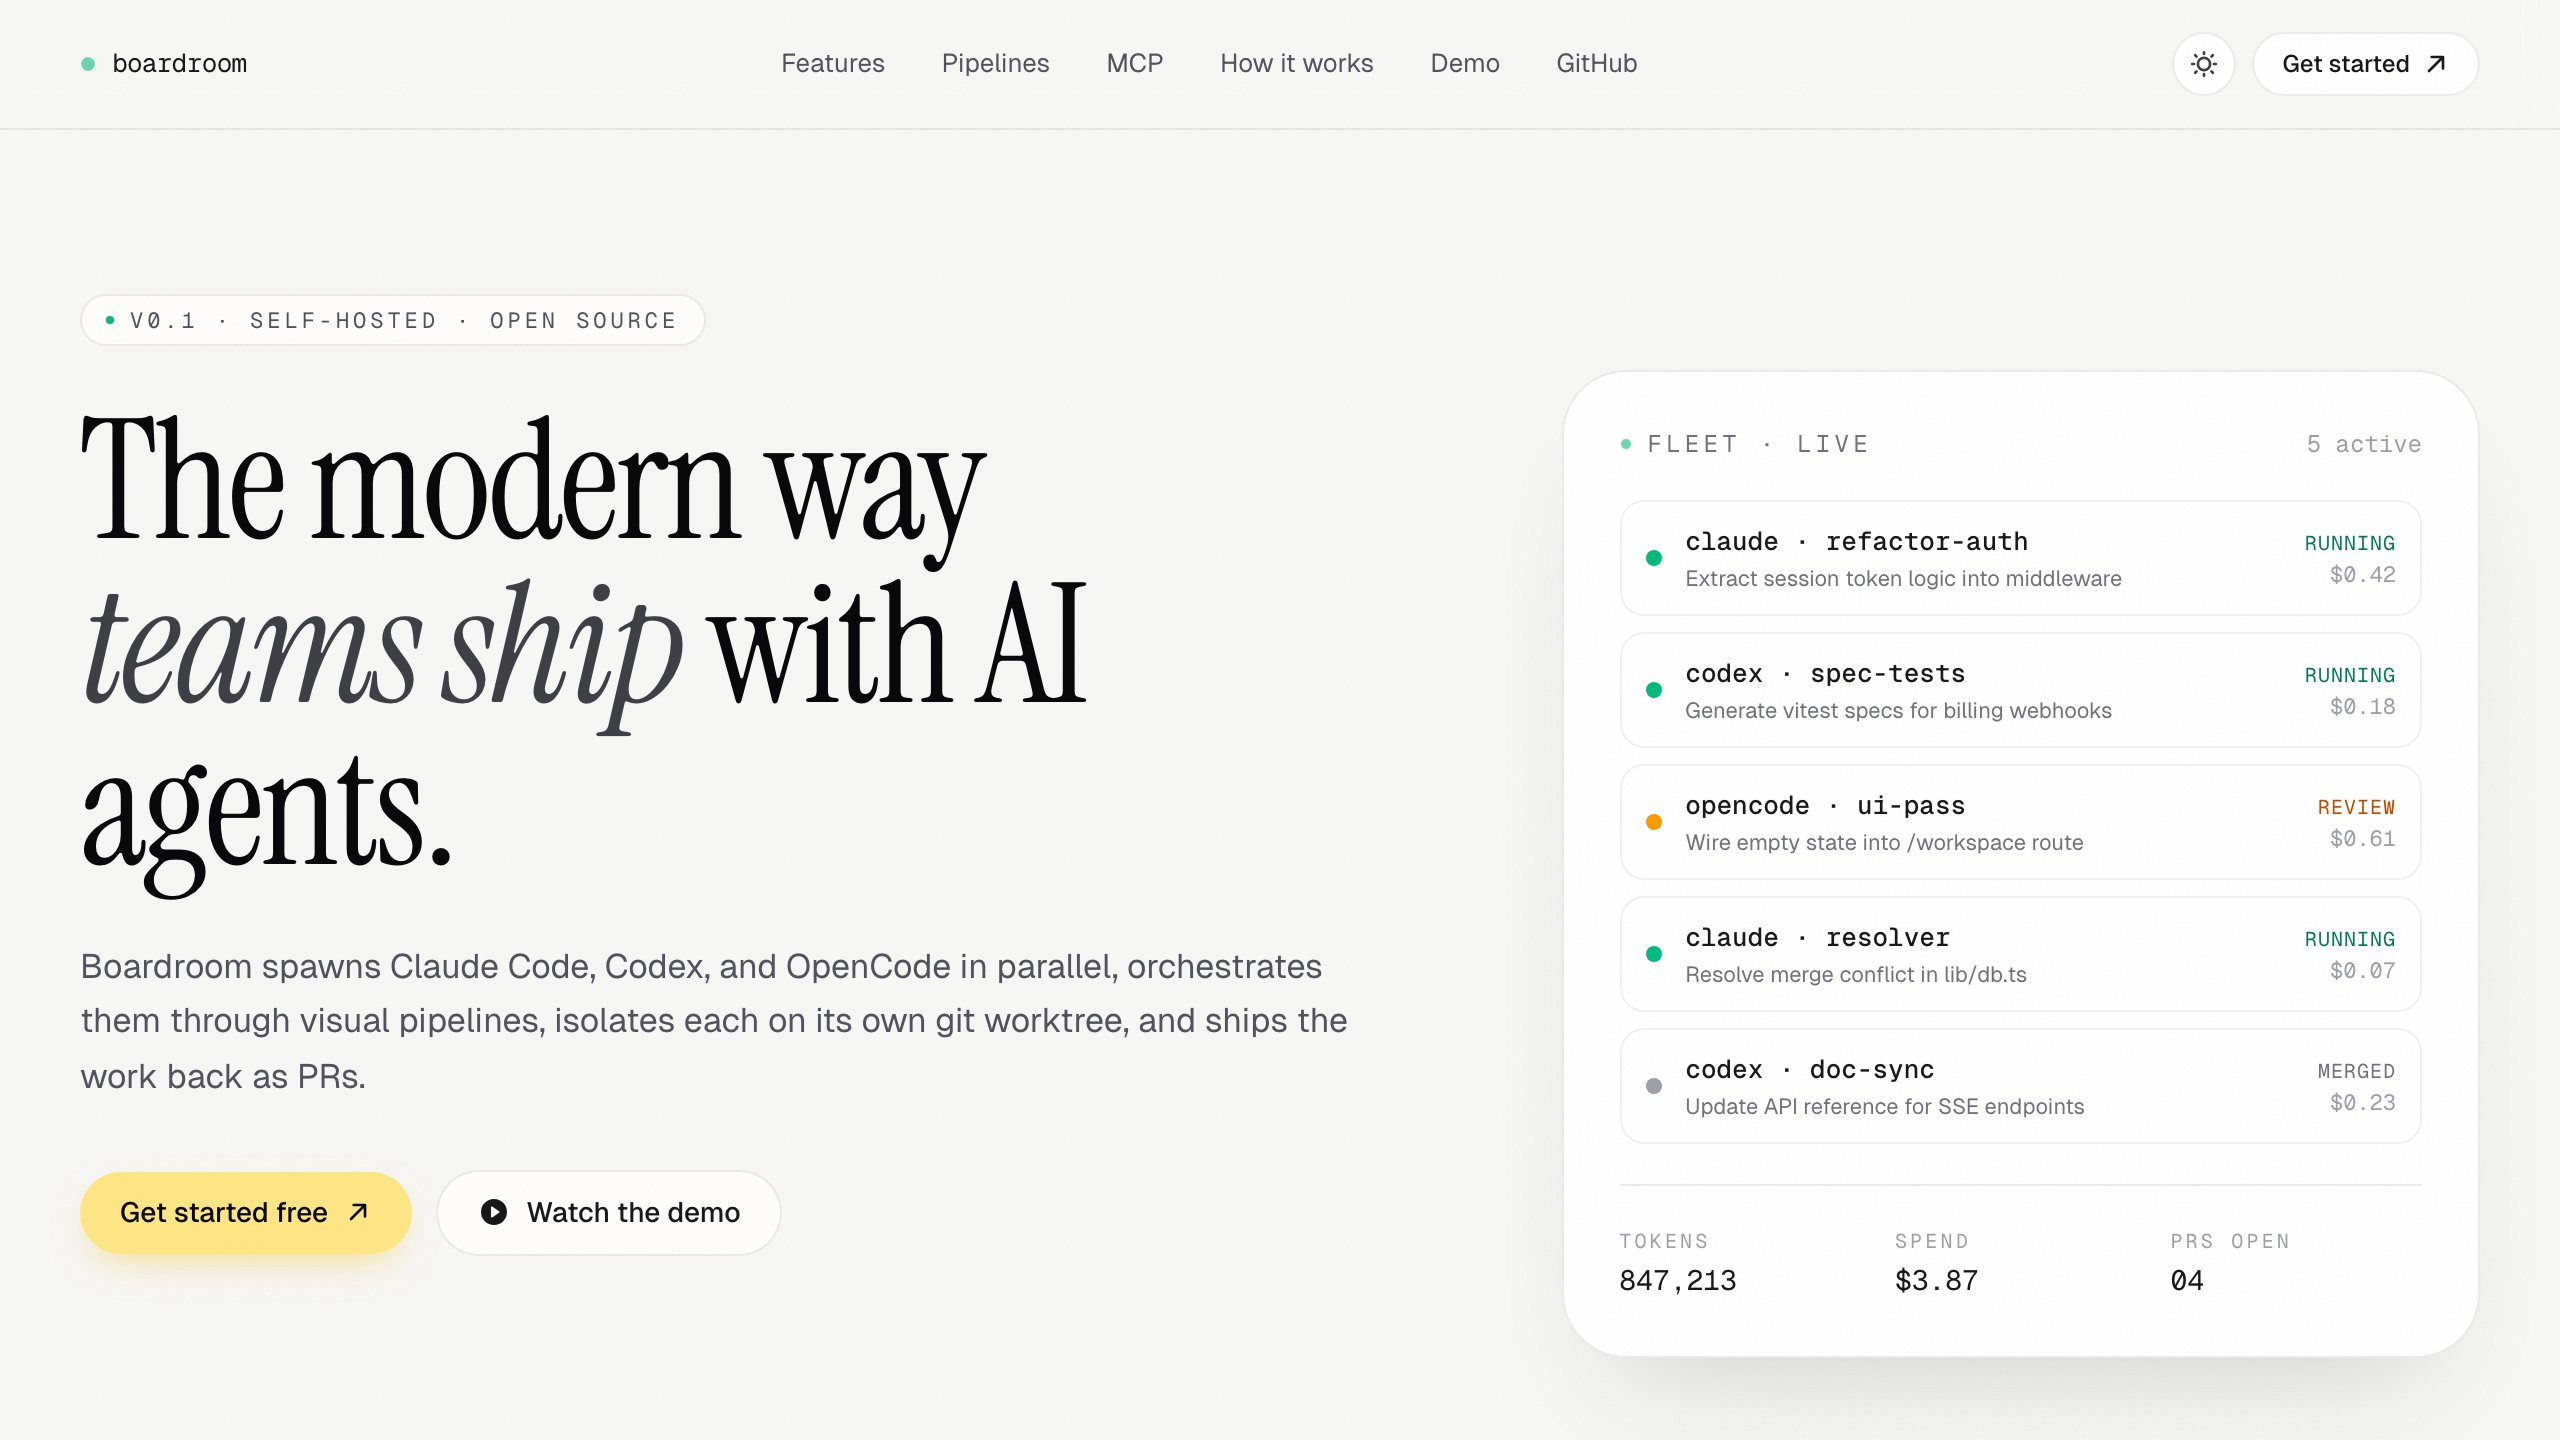
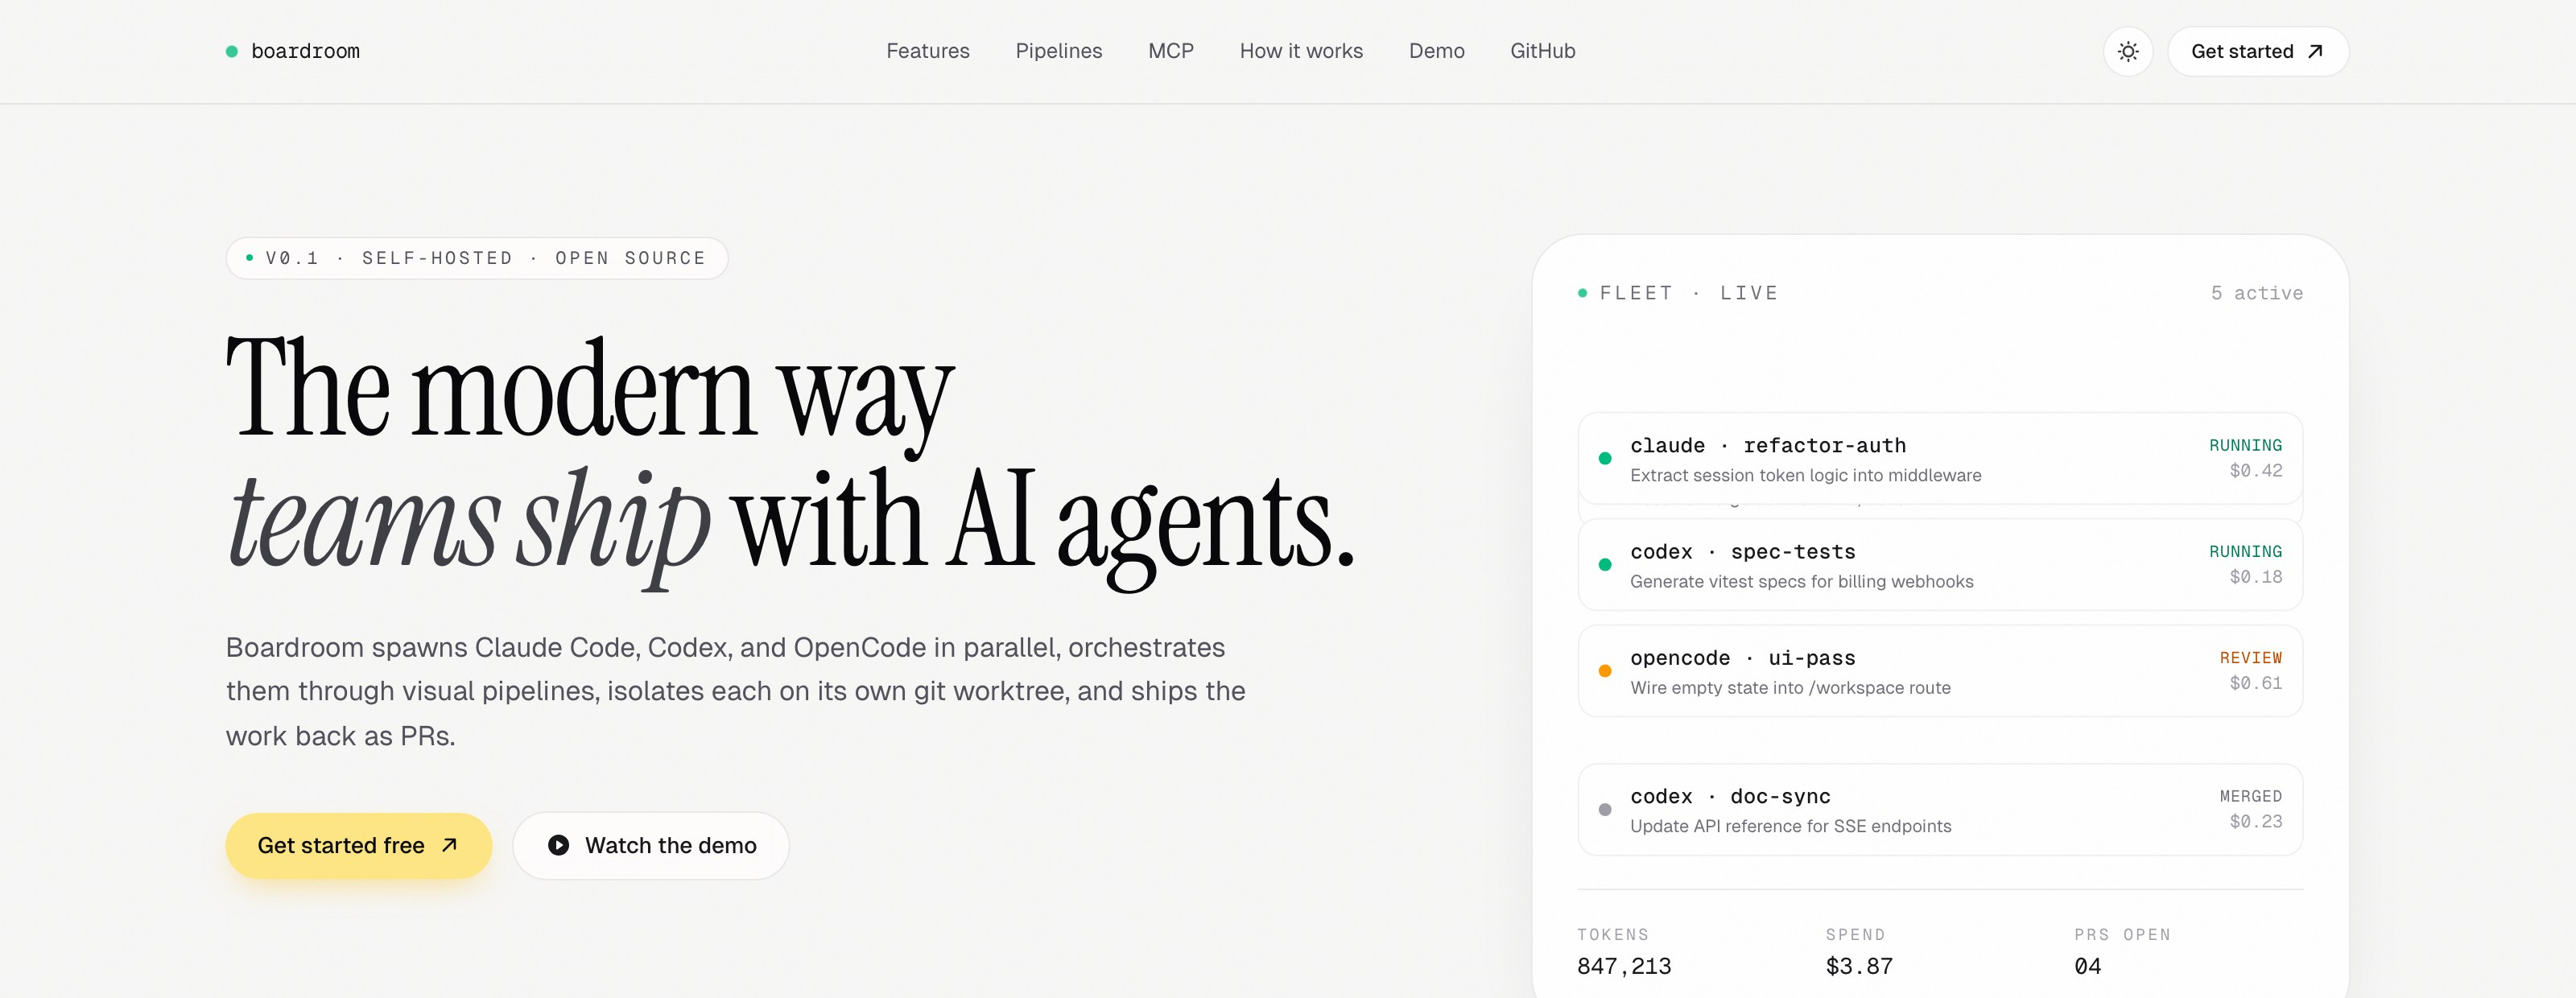
Improve sql-r1 card; fix boardroom preview aspect ratio
sql-r1 changes:
- Renamed card title from "sql-r1" to "Distilling DeepSeek into Qwen-7B"
  so the project's content is recognisable at a glance instead of just the
  repo slug.
- Switched the primary link to the published LinkedIn writeup (the article
  is now the canonical entry point); description still references the
  GitHub repo.

Boardroom preview: re-screenshotted boardroomapp.vercel.app at a wider
1600x620 viewport so the card preview strip (~2.6:1) shows both the hero
copy and the dashboard mockup instead of cropping the dashboard out.

diff --git a/data/projects.ts b/data/projects.ts
@@ -63,12 +63,12 @@ export const projects: Project[] = [
   },
   {
     id: 6,
-    title: "sql-r1",
+    title: "Distilling DeepSeek into Qwen-7B",
     description:
-      "Distilled DeepSeek-V3.1 and DeepSeek-V4-Pro into Qwen2.5-Coder-7B on Apple Silicon to learn how SFT and DPO actually behave at small scale. Eight training runs, two teachers, deterministic execution-match eval on the BIRD text-to-SQL benchmark.",
-    tags: ["MLX-LM", "LoRA", "DPO", "Distillation", "PyTorch"],
+      "A weekend distillation experiment to learn how SFT and DPO actually behave at small scale. Distilled DeepSeek-V3.1 and DeepSeek-V4-Pro into Qwen2.5-Coder-7B on Apple Silicon, scored on the BIRD text-to-SQL benchmark with deterministic execution match. Full writeup on LinkedIn; code on GitHub.",
+    tags: ["MLX-LM", "LoRA", "DPO", "Distillation", "Apple Silicon"],
     impact: "47.5% → 55% pass@1 on BIRD · $5.83 total spend",
-    link: "https://github.com/AbhiPoluri/sql-r1",
+    link: "https://www.linkedin.com/pulse/distilling-deepseek-7b-model-apple-silicon-abhiram-poluri-gv2uc/",
     previewUrl: null,
     screenshot: "/previews/sql-r1.jpg",
     type: "tech",